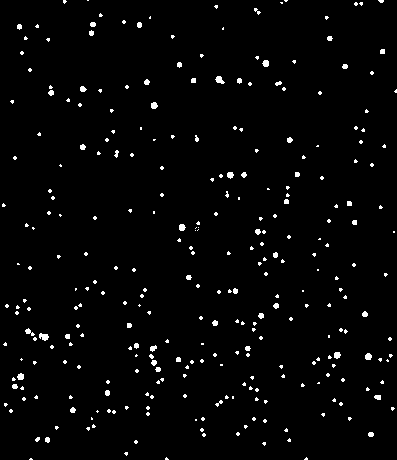
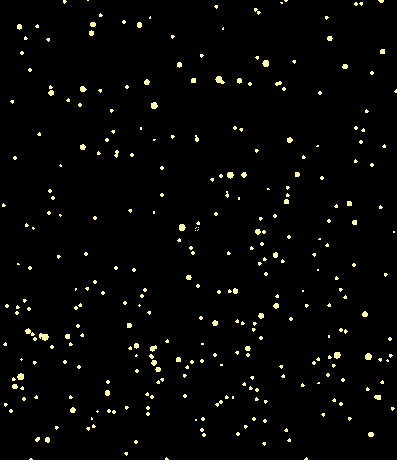
Fixnuty model, osvetlenie

diff --git a/asteroidmodel.cpp b/asteroidmodel.cpp
@@ -40,11 +40,14 @@ AsteroidModel::AsteroidModel(int textureId)
   for (int i = 1; i<6;i++)
   {
     int n = 4*(3-abs(i-3));
+
     float py = -sin(3*PI/2+i*PI/6)*radius;
+
     float miniradius = abs(cos(3*PI/2+i*PI/6)*radius);
     for(int j = 0;j<n;j++)
     {
-      float angle = j*(PI/(2*i));
+      //float angle = j*(PI/(2*i));
+      float angle = j*(PI/(2*(3-abs(i-3))));
       float px = cos(angle)*miniradius;
       float pz = -sin(angle)*miniradius;
       MyVertex v(px,py,pz,i%2,j%2);
@@ -52,7 +55,7 @@ AsteroidModel::AsteroidModel(int textureId)
     }
     //cout << ind << endl;
   }
-  MyVertex v1(0,-sin(PI/2)*radius,0,1,1);
+  MyVertex v1(0,-sin(PI/2)*radius,0,0,0);
   vertices[ind] = v1;
   //cout << ind << endl;
 
@@ -100,7 +103,7 @@ AsteroidModel::AsteroidModel(int textureId)
                6,14,15, 6,7,15, 7,15,16, 7,16,17, 7,8,17, 8,17,18, 8,9,18, 9,18,19, 9,19,20,
                9,10,20, 10,20,21, 10,11,21, 11,21,22, 11,22,23, 11,12,23, 12,23,24, 12,5,24,
                25,13,24, 25,13,14, 25,26,14, 26,14,15, 26,27,15, 27,15,16, 27,16,17, 27,28,17,
-               28,17,18, 28,29,18, 29,18,19, 29,19,20, 29,10,20, 30,20,21, 30,31,21, 31,21,22,
+               28,17,18, 28,29,18, 29,18,19, 29,19,20, 29,30,20, 30,20,21, 30,31,21, 31,21,22,
                31,22,23, 31,32,23, 32,23,24, 32,25,24, 33,25,26, 33,34,26, 33,32,25, 34,26,27,
                34,27,28, 34,35,28, 35,28,29, 35,29,30, 35,36,30, 36,30,31, 36,31,32, 36,33,32,
                37,33,34, 37,34,35, 37,35,36, 37,36,33 };
@@ -108,15 +111,18 @@ AsteroidModel::AsteroidModel(int textureId)
 }
 
 void AsteroidModel::draw()
-{
-  glColor3f(.4,.15,.01);
+{  
   //glDisable(GL_TEXTURE_2D);
   glEnableClientState(GL_VERTEX_ARRAY);
   glVertexPointer(3, GL_FLOAT, sizeof(MyVertex), &vertices[0].x);
+  glEnableClientState(GL_NORMAL_ARRAY);
+  glNormalPointer(GL_FLOAT,sizeof(MyVertex),&vertices[0].nx);
   glEnableClientState(GL_TEXTURE_COORD_ARRAY);
   glTexCoordPointer(2, GL_FLOAT,sizeof(MyVertex), &vertices[0].tx);
   //glColorPointer(4, GL_UNSIGNED_BYTE, sizeof(MyVertex), &vertices[0].color);
   glBindTexture(GL_TEXTURE_2D,textureId);
   glDrawRangeElements(GL_TRIANGLES, 0, 37, 216, GL_UNSIGNED_SHORT, index);
+  //glDrawRangeElements(GL_TRIANGLES, 0, 37, 108, GL_UNSIGNED_SHORT, index);
+
   //glEnable(GL_TEXTURE_2D);
 }

diff --git a/renderer.cpp b/renderer.cpp
@@ -16,10 +16,11 @@
  */
 
 #include "renderer.h"
-#include <GL/glut.h>
 #include "gameobject.h"
-#include <vector>
 #include "settings.h"
+#include <GL/glut.h>
+#include <vector>
+#include <cmath>
 
 using namespace std;
 
@@ -72,6 +73,20 @@ void Renderer::render()
   glClear(GL_COLOR_BUFFER_BIT | GL_DEPTH_BUFFER_BIT);  
   glMatrixMode(GL_MODELVIEW);
   glLoadIdentity();
+
+  /*GLfloat vzd = 3, fi = 0.7f, xi = 0.7f;
+  GLdouble ex = vzd*cos(fi)*cos(xi);
+  GLdouble ey = vzd*sin(fi)*cos(xi);
+  GLdouble ez = vzd*sin(xi);
+  gluLookAt( ex, ey, ez, 0.0f, 0.0f, 0.0f, 0.0f, 0.0f, 1.0f );*/
+  gluLookAt(0,0,0,0,0,-1,0,1,1);
+
+  /*glBegin( GL_LINES );
+  glColor3f(1.0f, 0.0f, 0.0f );glVertex3f( 0.0f, 0.0f,0.0f );glVertex3f( 100.0f, 0.0f,0.0f );
+  glColor3f(0.0f, 1.0f, 0.0f );glVertex3f( 0.0f, 0.0f,0.0f );glVertex3f( 0.0f, 100.0f,0.0f );
+  glColor3f(0.0f, 0.0f, 1.0f );glVertex3f( 0.0f, 0.0f,0.0f );glVertex3f( 0.0f, 0.0f,100.0f );
+  glEnd();*/
+
   vector<GameObject*> objects = actualRoom->getObjects();
   for(unsigned i = 0;i<objects.size();i++)
   {

diff --git a/universemodel.cpp b/universemodel.cpp
@@ -25,12 +25,12 @@ UniverseModel::UniverseModel(GLuint textureId)
 
 void UniverseModel::draw()
 {
-  glScalef(width/2,height/2,depth/2);
-  glColor3f(1.0, 1.0, 0.7);
+  glScalef(width/2,height/2,depth/2);  
   glBindTexture(GL_TEXTURE_2D,textureId);
   glBegin(GL_QUADS);
 
-  glTexCoord2f(0,0);
+  glTexCoord2f(0,0);  
+  glNormal3f(-1,0,0);
   glVertex3f(-1.0f, -1.0f, -1.0f);
   glTexCoord2f(0,1);
   glVertex3f( -1.0f, -1.0f, 1.0f);
@@ -39,6 +39,7 @@ void UniverseModel::draw()
   glTexCoord2f(1,0);
   glVertex3f(-1.0f,1.0f, -1.0f);
 
+  glNormal3f(1,0,0);
   glTexCoord2f(0,0);
   glVertex3f(1.0f, -1.0f, -1.0f);
   glTexCoord2f(0,1);
@@ -48,6 +49,7 @@ void UniverseModel::draw()
   glTexCoord2f(1,0);
   glVertex3f(1.0f,1.0f, -1.0f);
 
+  glNormal3f(0,-1,0);
   glTexCoord2f(0,0);
   glVertex3f(-1.0f, -1.0f, -1.0f);
   glTexCoord2f(0,1);
@@ -57,6 +59,7 @@ void UniverseModel::draw()
   glTexCoord2f(1,0);
   glVertex3f(-1.0f,-1.0f, 1.0f);
 
+  glNormal3f(0,1,0);
   glTexCoord2f(0,0);
   glVertex3f(-1.0f, 1.0f, -1.0f);
   glTexCoord2f(0,1);

diff --git a/game.cpp b/game.cpp
@@ -43,8 +43,6 @@ void Game::init()
   glClearColor(0.0f, 0.0f, 0.0f, 0.5f);
   glClearDepth(1.0f);
 
-  gluLookAt (0,0,0,0,0,1,0,1,1);
-
 
   glEnable(GL_DEPTH_TEST);
   glDepthFunc(GL_LEQUAL);
@@ -68,7 +66,25 @@ void Game::init()
   //glFogf(GL_FOG_COLOR,);
 
   //light
-  //glEnable(GL_LIGHTING);
+  glEnable(GL_LIGHTING);
+  glEnable(GL_LIGHT0);
+  glEnable(GL_LIGHT1);
+
+  float LightPos[4]={0.0f,0.0f,1.f,0.0f};
+  float Ambient[4]={1.f,1.f,1.f,1.0f};
+  GLfloat light_diffuse[] = { 1.0, 1.0, 1.0, 1.0 };
+  GLfloat light_specular[] = { 1.0, 1.0, 1.0, 1.0 };
+
+  float LightPos2[4]={-1.0f,1.0f,10.f,1.0f};
+  float Ambient2[4]={1.f,1.f,1.f,1.0f};
+
+  glLightfv(GL_LIGHT0,GL_POSITION,LightPos);
+  glLightfv(GL_LIGHT0,GL_AMBIENT,Ambient);
+  glLightfv(GL_LIGHT0,GL_DIFFUSE,light_diffuse);
+  glLightfv(GL_LIGHT0,GL_SPECULAR,light_specular);
+
+  glLightfv(GL_LIGHT1,GL_POSITION,LightPos2);
+  glLightfv(GL_LIGHT1,GL_AMBIENT,Ambient2);
 }
 
 int Game::start(int argc = 0, char *argv[] = NULL)

diff --git a/asteroidmodel.h b/asteroidmodel.h
@@ -24,13 +24,16 @@ struct MyVertex
 {
   float x,y,z;
   float tx,ty;
-  //uint color;
-  float padding[3];
+  float nx, ny, nz;
+  //float padding[3];
   MyVertex()
   {
     this->x = 0;
     this->y = 0;
     this->z = 0;
+    this->nx = 0;
+    this->ny = 0;
+    this->nz = 0;
     this->tx = 0;
     this->ty = 0;
     //color = 0x9900ffff;
@@ -40,6 +43,9 @@ struct MyVertex
     this->x = x;
     this->y = y;
     this->z = z;
+    this->nx = x;
+    this->ny = y;
+    this->nz = z;
     this->tx = tx;
     this->ty = ty;
     //color = 0x9900ffff;

diff --git a/scoremodel.cpp b/scoremodel.cpp
@@ -92,6 +92,7 @@ void ScoreModel::draw()
 {
   glDisable(GL_TEXTURE_2D);
   glDisable(GL_FOG);
+  glDisable(GL_LIGHTING);
   glMatrixMode(GL_PROJECTION);                        // Budeme menit projekcnu maticu (transformaciu)
   glPushMatrix();
   glLoadIdentity();                                   // Vynulovanie
@@ -106,6 +107,7 @@ void ScoreModel::draw()
   glEnable(GL_TEXTURE_2D);
   if(Game::fog)
     glEnable(GL_FOG);
+  glEnable(GL_LIGHTING);
 }
 
 void ScoreModel::setScore(int score)
